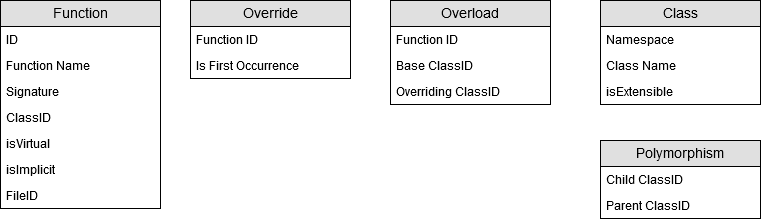
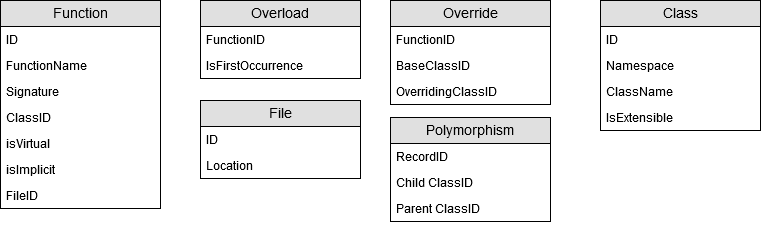
Edited Database schema; Updated plugin to allFunctions and weirdHierarchy outputs

diff --git a/tools/compiler/OMRStatistics/plugin.cpp b/tools/compiler/OMRStatistics/plugin.cpp
@@ -492,8 +492,8 @@ size_t OMRStatistics::HMConsumer::findLastStringIn(std::string input, std::strin
 	return pos;
 }
 
-void OMRStatistics::HMConsumer::printOverloads(llvm::raw_ostream* out) {
-	(*out) << "FunctionName; FunctionSignature; IsFirstOccurence; Namespace; ClassName; isImplicit; isVirtual\n";
+void OMRStatistics::HMConsumer::printOverloads(llvm::raw_ostream* out, bool printAll) {
+	*out << "FunctionName; FunctionSignature; IsFirstOccurence; Namespace; ClassName; isImplicit; isVirtual\n";
 	for(auto hierarchy : hierarchies) {
 		auto trackerMapVec = hierarchy->methodName2MethodTrackerVec;
 		for(auto trackerMap : trackerMapVec) { //Go through the map of each subHierarchy
@@ -503,7 +503,7 @@ void OMRStatistics::HMConsumer::printOverloads(llvm::raw_ostream* out) {
 			auto itr = b;
 			while(itr != e) {
 				auto hierarchyTrackers = *(itr->second);
-				if(hierarchyTrackers.size() < 2) { 
+				if(!printAll && hierarchyTrackers.size() < 2) { 
 				//If methodname has only one signature, then it is not overloaded
 					itr++;
 					continue;
@@ -512,13 +512,13 @@ void OMRStatistics::HMConsumer::printOverloads(llvm::raw_ostream* out) {
 				for(auto tracker : hierarchyTrackers) {
 					std::vector<std::string>* tuple = seperateClassNameSpace(tracker.baseClassName);
 					if(!shouldIgnoreNamespace(tuple->at(0))) {
-						(*out) << tracker.methodName << ";";
-						(*out) << tracker.methodSignature << ";";
-						(*out) << tracker.firstOccurence << ";";
-						(*out) << tuple->at(0) << ";"; //namespace
-						(*out) << tuple->at(1) << ";";//className
-						(*out) << tracker.isImplicit << ";";
-						(*out) << tracker.isVirtual << "\n";
+						*out << tracker.methodName << ";";
+						*out << tracker.methodSignature << ";";
+						*out << tracker.firstOccurence << ";";
+						*out << tuple->at(0) << ";"; //namespace
+						*out << tuple->at(1) << ";";//className
+						*out << tracker.isImplicit << ";";
+						*out << tracker.isVirtual << "\n";
 					}
 				}
 				itr++;
@@ -528,7 +528,7 @@ void OMRStatistics::HMConsumer::printOverloads(llvm::raw_ostream* out) {
 }
 
 void OMRStatistics::HMConsumer::printOverrides(llvm::raw_ostream* out) {
-	(*out) << "BaseNamespace; BaseClassName; FunctionSignature; OverridingNamespace; OverridingClassName; isImplicit; isVirtual\n";
+	*out << "BaseNamespace; BaseClassName; FunctionSignature; OverridingNamespace; OverridingClassName; isImplicit; isVirtual\n";
 	for(Hierarchy* hierarchy : hierarchies) {
 		std::vector<std::map<std::string, std::vector<MethodTracker>*>*> trackerMapVec = hierarchy->methodName2MethodTrackerVec;
 		for(std::map<std::string, std::vector<MethodTracker>*>* trackerMap : trackerMapVec) {
@@ -544,13 +544,13 @@ void OMRStatistics::HMConsumer::printOverrides(llvm::raw_ostream* out) {
 						std::vector<std::string>* baseClassNameTuple = seperateClassNameSpace(baseClassName);
 						std::vector<std::string>* classNameTuple = seperateClassNameSpace(className);
 						if(!shouldIgnoreNamespace(baseClassNameTuple->at(0)) || !shouldIgnoreNamespace(classNameTuple->at(0))) {
-							(*out) << baseClassNameTuple->at(0) << ";"; //namespace
-							(*out) << baseClassNameTuple->at(1) << ";";//className
-							(*out) << tracker.methodSignature << ";";
-							(*out) << classNameTuple->at(0) << ";"; //namespace
-							(*out) << classNameTuple->at(1) << ";";//className
-							(*out) << tracker.isImplicit << ";";
-							(*out) << tracker.isVirtual << "\n";
+							*out << baseClassNameTuple->at(0) << ";"; //namespace
+							*out << baseClassNameTuple->at(1) << ";";//className
+							*out << tracker.methodSignature << ";";
+							*out << classNameTuple->at(0) << ";"; //namespace
+							*out << classNameTuple->at(1) << ";";//className
+							*out << tracker.isImplicit << ";";
+							*out << tracker.isVirtual << "\n";
 						}
 						baseClassName = className;
 					}
@@ -562,7 +562,7 @@ void OMRStatistics::HMConsumer::printOverrides(llvm::raw_ostream* out) {
 }
 
 void OMRStatistics::HMConsumer::printHierarchies(HMRecorder& recorder, llvm::raw_ostream* out) {
-	(*out) << "isExtensible; Hierarchy\n";
+	*out << "isExtensible; Hierarchy\n";
 	for(Hierarchy* h : hierarchies) {
 		std::string isExtensible = (recorder.getIsExtensible()[h->base->name]) ? "1;" : "0;";
 		printHierarchy(isExtensible, h->base, out);
@@ -575,14 +575,15 @@ void OMRStatistics::HMConsumer::printHierarchy(std::string history, LinkedNode* 
 	for(LinkedNode* parent : *parents) {
 		printHierarchy(history, parent, out);
 	}
-	if(parents->size() == 0) (*out) << history.substr(0, history.size() - 5) << "\n";
+	if(parents->size() == 0) *out << history.substr(0, history.size() - 5) << "\n";
 }
 
 void OMRStatistics::HMConsumer::printWeirdHierarchies(HMRecorder& recorder, llvm::raw_ostream* out) {
+	*out << "childClassName(isExtensible) --> parentClassName(isExtensible)\n";
 	std::map<std::string, bool> isExtensible = recorder.getIsExtensible();
 	for(auto clas : recorder.getClassHierarchy()) {
 		for(auto parent : *clas.second)	if(isExtensible[clas.first] != isExtensible[parent])
-			llvm::outs() << clas.first << "(" << isExtensible[clas.first] << ") --> " << parent << "(" << isExtensible[parent] << ")\n";
+			*out << clas.first << "(" << isExtensible[clas.first] << ") --> " << parent << "(" << isExtensible[parent] << ")\n";
 	}
 }
 
@@ -597,6 +598,7 @@ void OMRStatistics::HMConsumer::HandleTranslationUnit(ASTContext &Context) {
 	llvm::raw_ostream* hierarchyOutput = nullptr;
 	llvm::raw_ostream* weirdHierarchyOutput = nullptr;
 	llvm::raw_ostream* overloadOutput = nullptr;
+	llvm::raw_ostream* allFunctionsOutput = nullptr;
 	llvm::raw_ostream* overrideOutput = nullptr;
 	bool useLLVMOuts = true;
 	
@@ -614,6 +616,9 @@ void OMRStatistics::HMConsumer::HandleTranslationUnit(ASTContext &Context) {
 		overloadOutput = new llvm::raw_fd_ostream(conf.outputDir + ".overloads", EC, llvm::sys::fs::F_Append);
 		assert(!EC);
 		
+		allFunctionsOutput = new llvm::raw_fd_ostream(conf.outputDir + ".allFunctions", EC, llvm::sys::fs::F_Append);
+		assert(!EC);
+		
 		overrideOutput = new llvm::raw_fd_ostream(conf.outputDir + ".overrides", EC, llvm::sys::fs::F_Append);
 		assert(!EC);
 	}
@@ -621,6 +626,7 @@ void OMRStatistics::HMConsumer::HandleTranslationUnit(ASTContext &Context) {
 		hierarchyOutput = &(llvm::outs());
 		weirdHierarchyOutput = &(llvm::outs());
 		overloadOutput = &(llvm::outs());
+		allFunctionsOutput = &(llvm::outs());
 		overrideOutput = &(llvm::outs());
 	}
 	
@@ -628,19 +634,25 @@ void OMRStatistics::HMConsumer::HandleTranslationUnit(ASTContext &Context) {
 		printHierarchies(recorder, hierarchyOutput);
 		printWeirdHierarchies(recorder, weirdHierarchyOutput);
 	}
-	if(conf.overloading) 
-		printOverloads(overloadOutput);
+	if(conf.overloading) {
+		printOverloads(overloadOutput, false);
+		printOverloads(allFunctionsOutput, true);
+	}
 	printOverrides(overrideOutput);
 	
 	//Flush all outputs to their respective files
 	hierarchyOutput->flush();
+	weirdHierarchyOutput->flush();
 	overloadOutput->flush();
+	allFunctionsOutput->flush();
 	overrideOutput->flush();
 	
 	//Free memory
 	if(conf.outputDir.compare("-1") != 0) {
 		delete hierarchyOutput;
+		delete weirdHierarchyOutput;
 		delete overloadOutput;
+		delete allFunctionsOutput;
 		delete overrideOutput;
 	}
 	 

diff --git a/tools/compiler/OMRStatistics/plugin.hpp b/tools/compiler/OMRStatistics/plugin.hpp
@@ -164,7 +164,7 @@ namespace OMRStatistics {
 		
 		std::vector<std::string>* seperateClassNameSpace(std::string input);
 		size_t findLastStringIn(std::string input, std::string key);
-		void printOverloads(llvm::raw_ostream* out);
+		void printOverloads(llvm::raw_ostream* out, bool printAll);
 		void printOverrides(llvm::raw_ostream* out);
 		
 		virtual void HandleTranslationUnit(ASTContext &Context);
